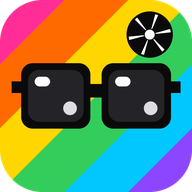
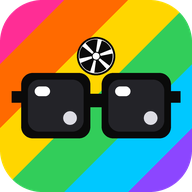
Place shutter on head above sunglasses bridge.
Center the aperture accent just above the bridge so it reads
as a camera shutter button, still simple at small sizes.

Changed region(s): [[0.0312, 0.0312, 0.9688, 0.5625], [0.0938, 0.5, 0.9062, 0.75]]

diff --git a/components/BrandMark.tsx b/components/BrandMark.tsx
@@ -5,7 +5,7 @@ type Props = { size?: number };
 
 /**
  * Original One Day One Shot mark: rounded square, six diagonal color bands,
- * large bold sunglasses + small top-right shutter accent. Not an Instagram logo/glyph copy.
+ * large bold sunglasses + small shutter centered above the bridge. Not an Instagram logo/glyph copy.
  */
 export function BrandMark({ size = 72 }: Props) {
   return (
